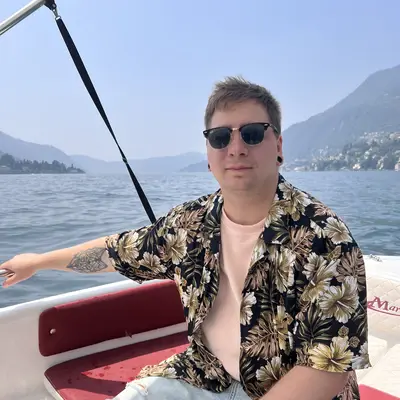
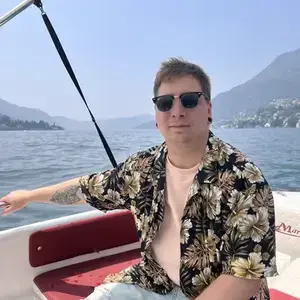
perf: lazy-load github repos, optimize image dimensions, remove scroll reflows

diff --git a/script.js b/script.js
@@ -168,35 +168,6 @@ function initAnimations() {
     });
 }
 
-// Add scroll event for header shadow (if we add a header later)
-let lastScroll = 0;
-window.addEventListener('scroll', () => {
-    const currentScroll = window.pageYOffset;
-
-    // You can add header shadow logic here if needed
-
-    lastScroll = currentScroll;
-});
-
-// Performance optimization: Debounce resize events
-function debounce(func, wait) {
-    let timeout;
-    return function executedFunction(...args) {
-        const later = () => {
-            clearTimeout(timeout);
-            func(...args);
-        };
-        clearTimeout(timeout);
-        timeout = setTimeout(later, wait);
-    };
-}
-
-// Handle window resize
-const handleResize = debounce(() => {
-    // Add any resize-specific logic here if needed
-}, 250);
-
-window.addEventListener('resize', handleResize);
 
 // Initialize on page load
 document.addEventListener('DOMContentLoaded', () => {
@@ -207,9 +178,26 @@ document.addEventListener('DOMContentLoaded', () => {
 // Add loading complete class for any CSS transitions
 window.addEventListener('load', () => {
     document.body.classList.add('loaded');
-    // Fetch GitHub repos after page load to avoid blocking the critical path
-    setTimeout(fetchGitHubRepos, 200);
+    // Lazy-load GitHub repos when projects container is near viewport
+    initGitHubReposLazyLoad();
 });
+
+// Lazy-load GitHub repos when projects container is near the viewport
+function initGitHubReposLazyLoad() {
+    const container = document.getElementById('github-projects');
+    if (!container) return;
+
+    const repoObserver = new IntersectionObserver((entries) => {
+        entries.forEach(entry => {
+            if (entry.isIntersecting) {
+                fetchGitHubRepos();
+                repoObserver.disconnect(); // Load only once
+            }
+        });
+    }, { rootMargin: '200px 0px' }); // Load 200px before scrolling into view
+
+    repoObserver.observe(container);
+}
 
 // Preload critical resources for better performance
 function preloadResources() {